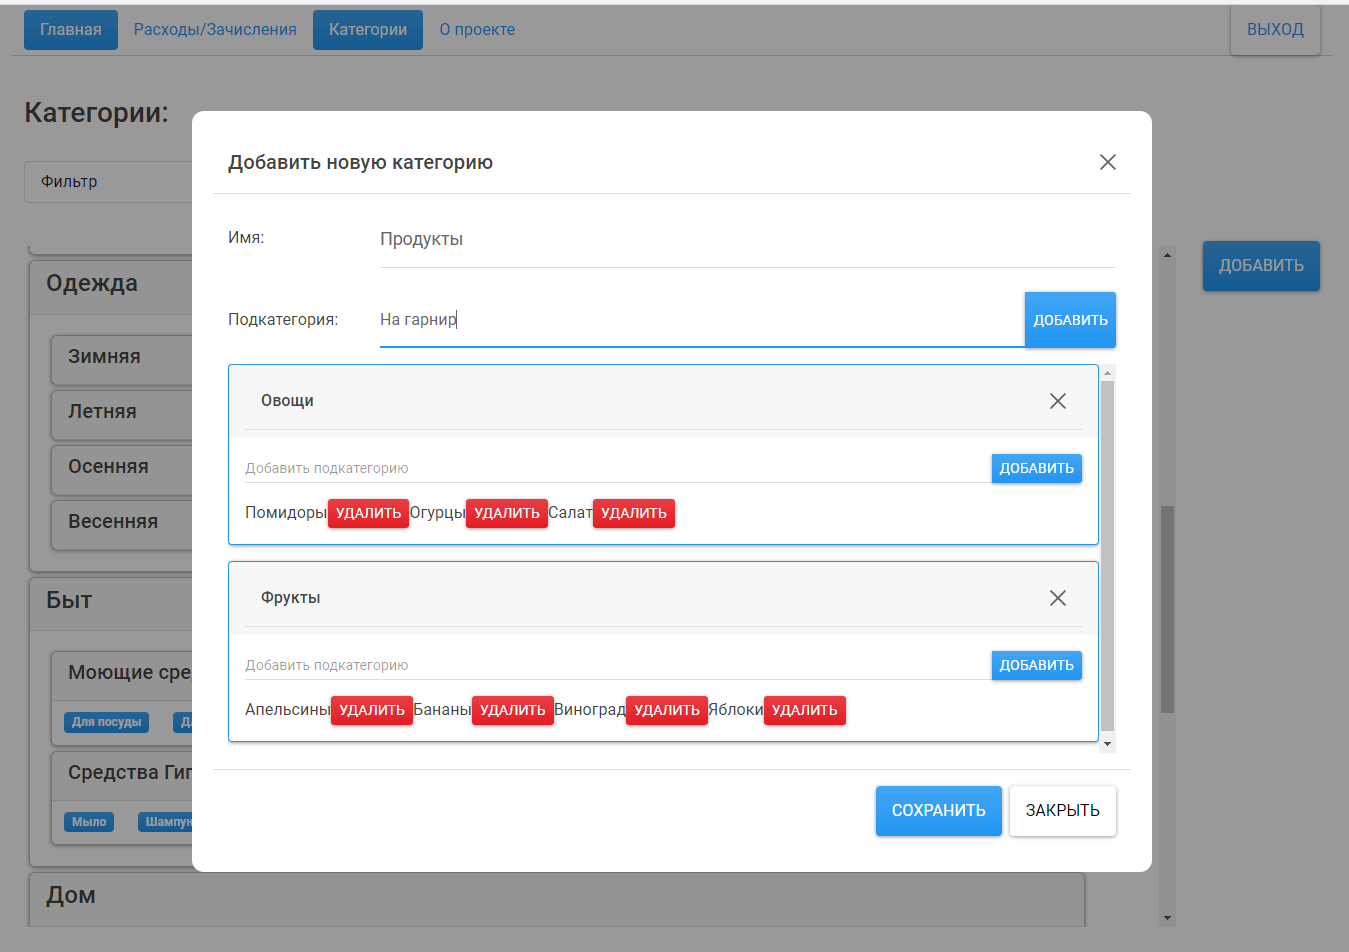
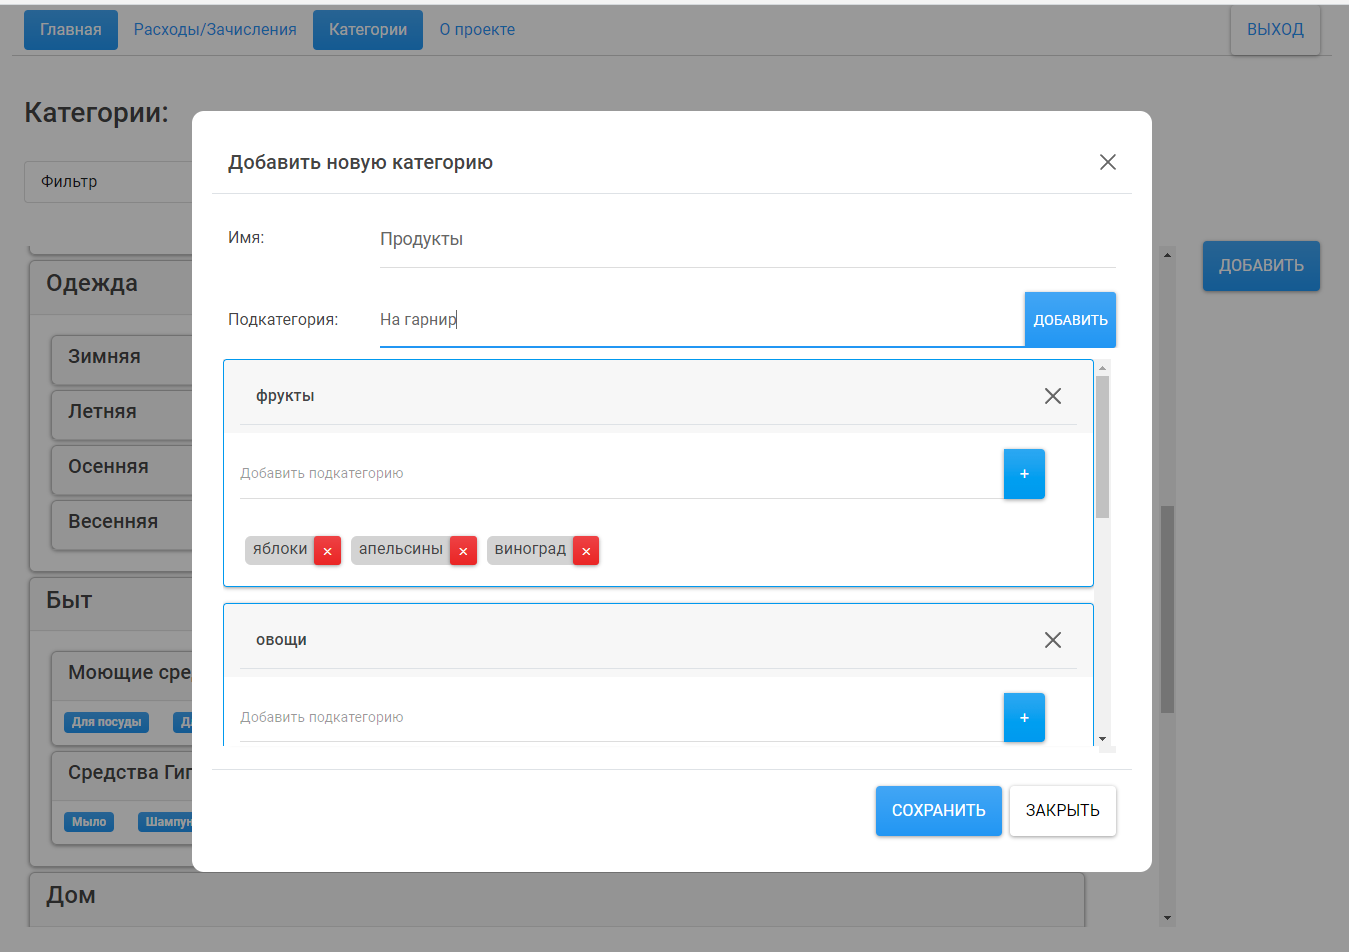
изменил вёрстку подкатегорий

Changed region(s): [[0.1557, 0.3655, 0.8406, 0.792], [0.1868, 0.396, 0.2491, 0.4265]]

diff --git a/src/components/Categories/CategoryPopup/SubCategory.tsx b/src/components/Categories/CategoryPopup/SubCategory.tsx
@@ -70,7 +70,7 @@ export default class SubCategory extends React.Component<
           </div>
         </div>
         <div className="card-body">
-          <div className="input-group mb-3">
+          <div className="input-group mb-3 card-body-input">
             <input
               type="text"
               className="form-control form-control-sm"
@@ -82,27 +82,29 @@ export default class SubCategory extends React.Component<
               onChange={this.onChangeName}
             />
             <Button
-              className="btn btn-sm"
+              className="btn"
               type="button"
               id="button-subCategory-btn"
               data-testid={"sub-card-add-btn"}
               onClick={this.addCategory}
             >
-              Добавить
+              +
             </Button>
           </div>
           {this.state.childrens.map((value, index) => (
             <React.Fragment key={`sub-ch-cat-${index}`}>
-              <label>{value}</label>
-              <Button
-                className={"btn-danger btn-sm"}
-                data-testid={`ch-del-btn-${index}`}
-                onClick={() => {
-                  this.deleteCategory(index);
-                }}
-              >
-                Удалить
-              </Button>
+              <div className={"sub-ch-cat"}>
+                <label>{value}</label>
+                <Button
+                  className={"btn-danger btn-sm btn-del"}
+                  data-testid={`ch-del-btn-${index}`}
+                  onClick={() => {
+                    this.deleteCategory(index);
+                  }}
+                >
+                  ×
+                </Button>
+              </div>
             </React.Fragment>
           ))}
         </div>

diff --git a/src/components/Categories/CategoryPopup/EditCategoryPopup.tsx b/src/components/Categories/CategoryPopup/EditCategoryPopup.tsx
@@ -129,7 +129,7 @@ export default class EditCategoryPopup extends React.Component<
                       data-testid={"modal-subcategory-input"}
                     />
                     <Button
-                      className="btn btn-sm"
+                      className="btn"
                       type="button"
                       id="button-subCategory-btn"
                       onClick={this.addSubCategory}

diff --git a/src/components/Categories/CategoryPopup/NewCategoryPopup.tsx b/src/components/Categories/CategoryPopup/NewCategoryPopup.tsx
@@ -123,7 +123,7 @@ export default class NewCategoryPopup extends React.Component<
                       data-testid={"modal-subcategory-input"}
                     />
                     <Button
-                      className="btn btn-sm"
+                      className="btn"
                       type="button"
                       id="button-subCategory-btn"
                       onClick={this.addSubCategory}

diff --git a/src/components/Categories/CategoryPopup/subCat.css b/src/components/Categories/CategoryPopup/subCat.css
@@ -5,3 +5,21 @@
 .cat-name {
   font-size: 1.1em !important;
 }
+.btn-del {
+  font: 1.1em/1em Tahoma, Verdana, sans-serif;
+  text-transform: uppercase;
+  margin-left: 0.5em;
+}
+.sub-ch-cat {
+  border-radius: 6px;
+  width: fit-content;
+  display: inline-block;
+  margin: 5px;
+  background: lightgray;
+}
+.sub-ch-cat label {
+  padding-left: 0.5em;
+}
+.card-body-input {
+  padding: 0 2em 1em 0;
+}
